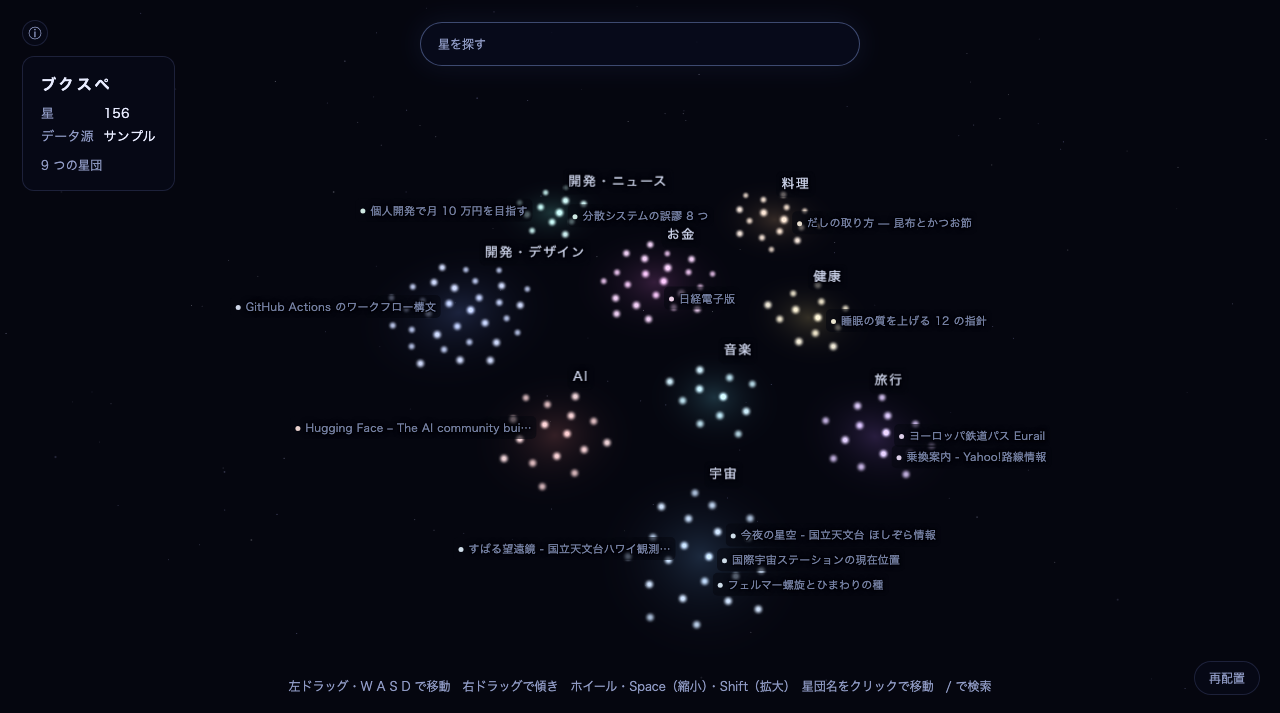
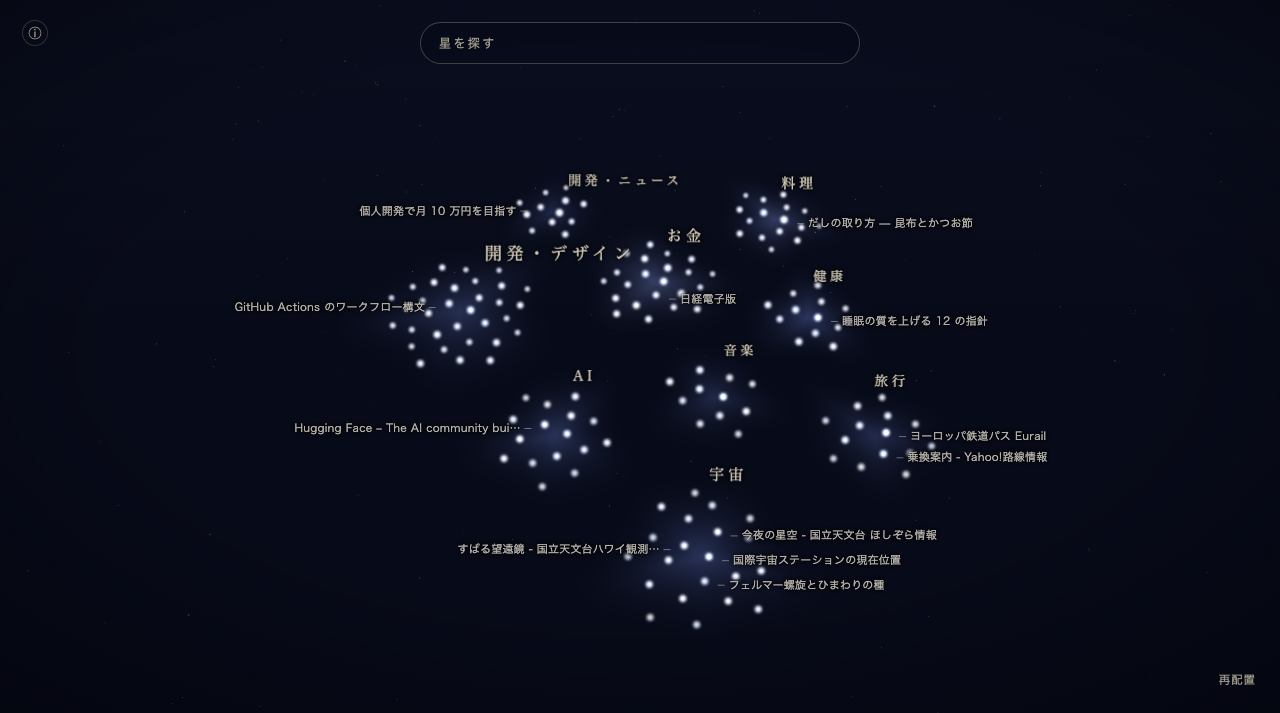
docs: record the star-chart look and refresh screenshots

diff --git a/AGENTS.md b/AGENTS.md
@@ -98,3 +98,6 @@ URL に `?sample=1` を付けると拡張機能内でも強制的にサンプル
    段階を終えるたびに `docs/HANDOFF.md` を更新する。
 7. 見た目と意味の対応（星＝ブックマーク、星団＝意味のまとまり、明るさ＝最終利用、
    ブラックホール＝検索、星座＝保存済み検索、新星＝新規候補）は常に一貫させる。
+   色は藍（夜）・白〜淡いクリーム（星と文字）・金（人が名付けたもの＝自分で結んだ星座）の 3 系統に限る。
+   星団を色相で塗り分けない。フォルダの自動星座（M5）は金ではなく淡い銀色。書体は名前が明朝、記録がゴシック
+   （詳しくは `docs/HANDOFF.md` の「見た目の決まり」）。

diff --git a/CLAUDE.md b/CLAUDE.md
@@ -98,3 +98,6 @@ URL に `?sample=1` を付けると拡張機能内でも強制的にサンプル
    段階を終えるたびに `docs/HANDOFF.md` を更新する。
 7. 見た目と意味の対応（星＝ブックマーク、星団＝意味のまとまり、明るさ＝最終利用、
    ブラックホール＝検索、星座＝保存済み検索、新星＝新規候補）は常に一貫させる。
+   色は藍（夜）・白〜淡いクリーム（星と文字）・金（人が名付けたもの＝自分で結んだ星座）の 3 系統に限る。
+   星団を色相で塗り分けない。フォルダの自動星座（M5）は金ではなく淡い銀色。書体は名前が明朝、記録がゴシック
+   （詳しくは `docs/HANDOFF.md` の「見た目の決まり」）。
